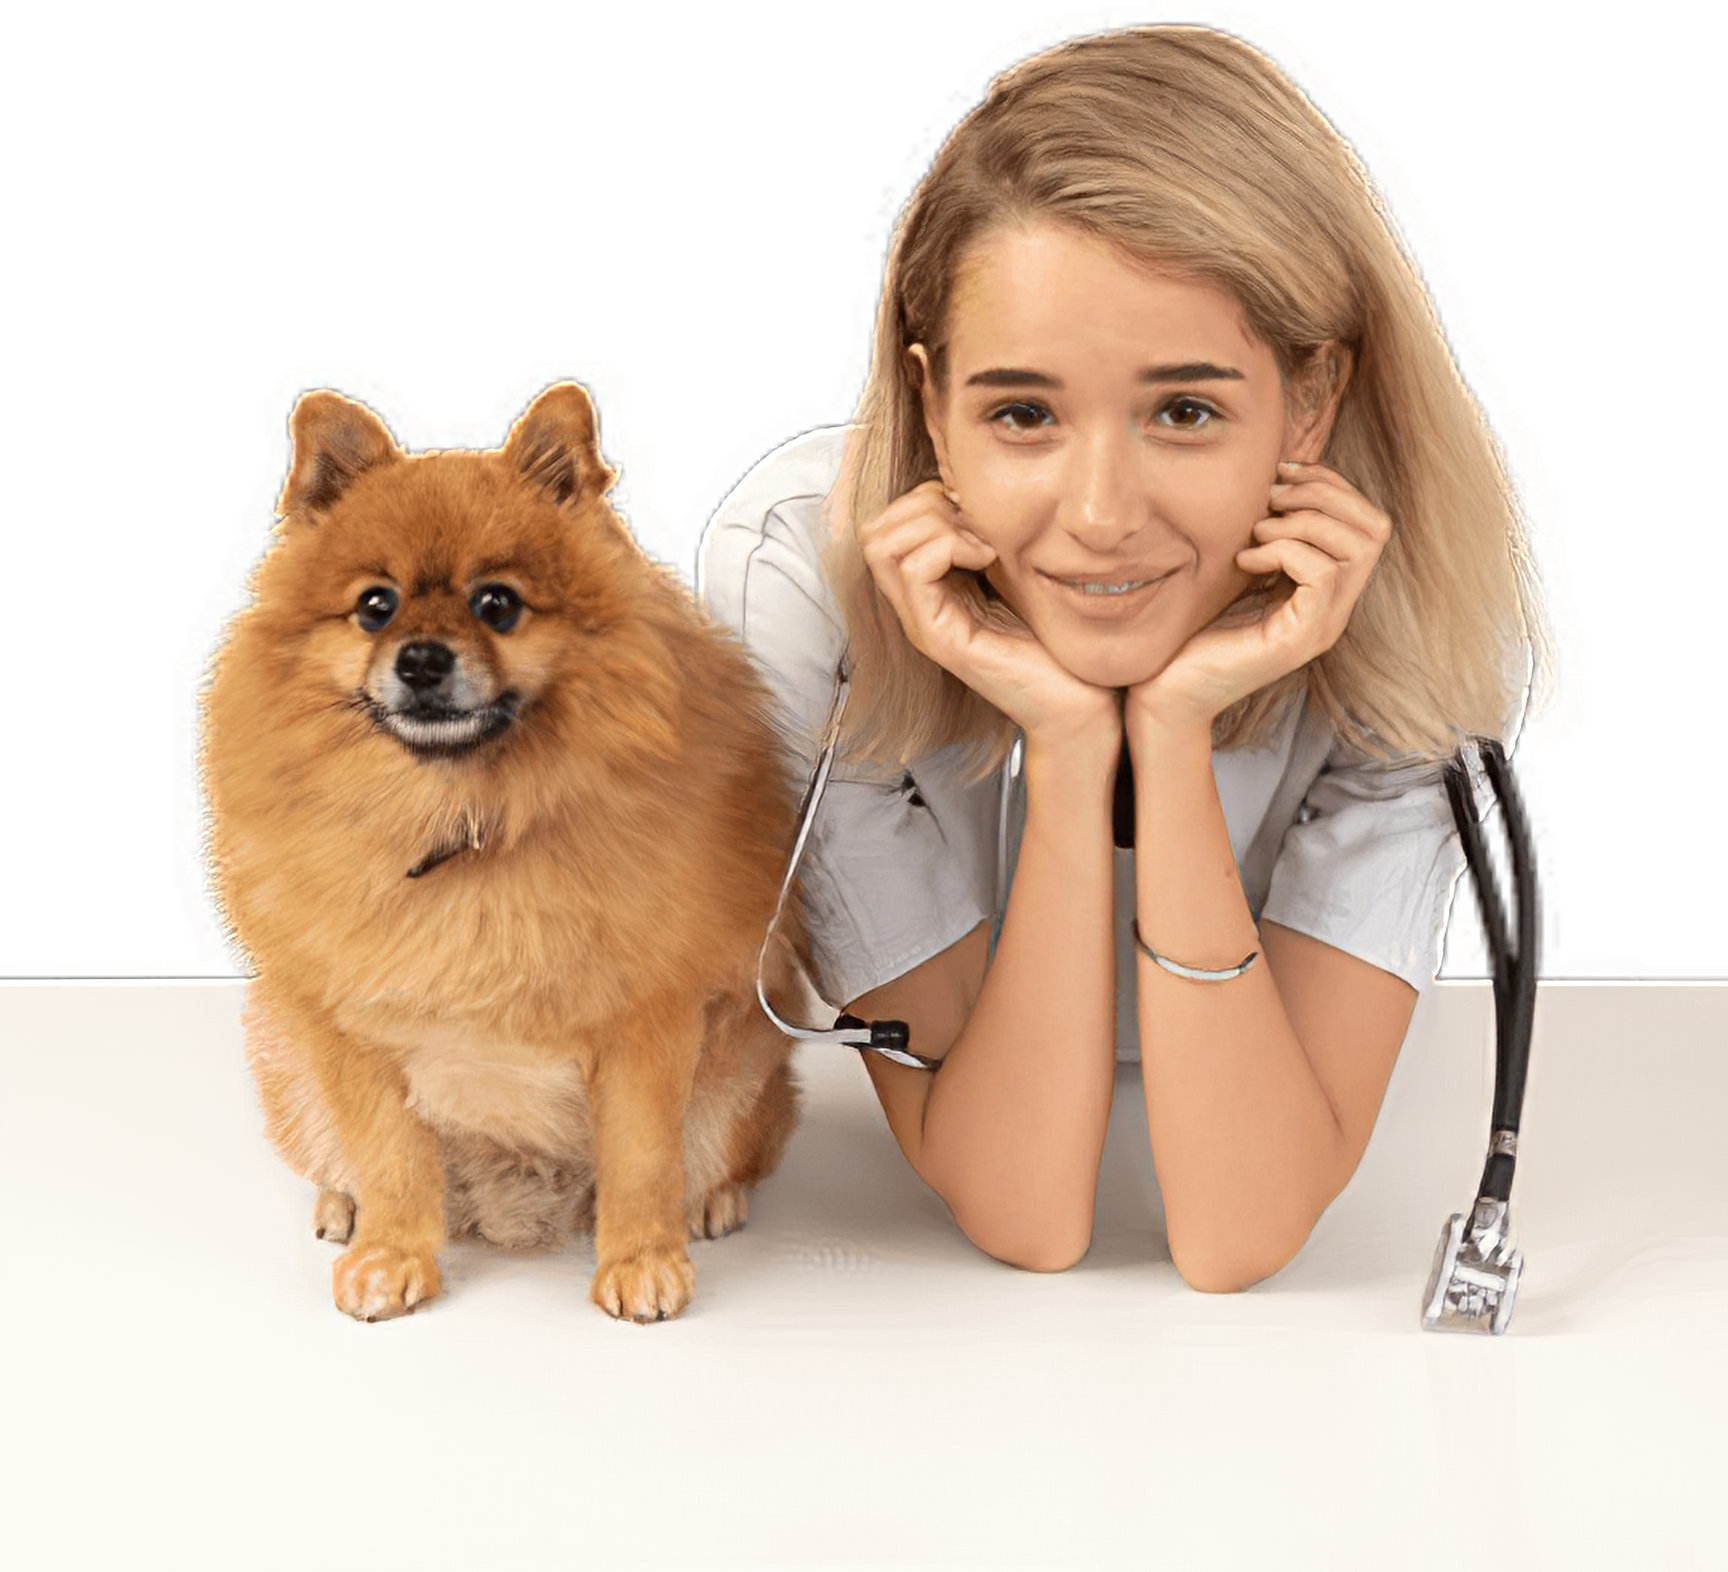
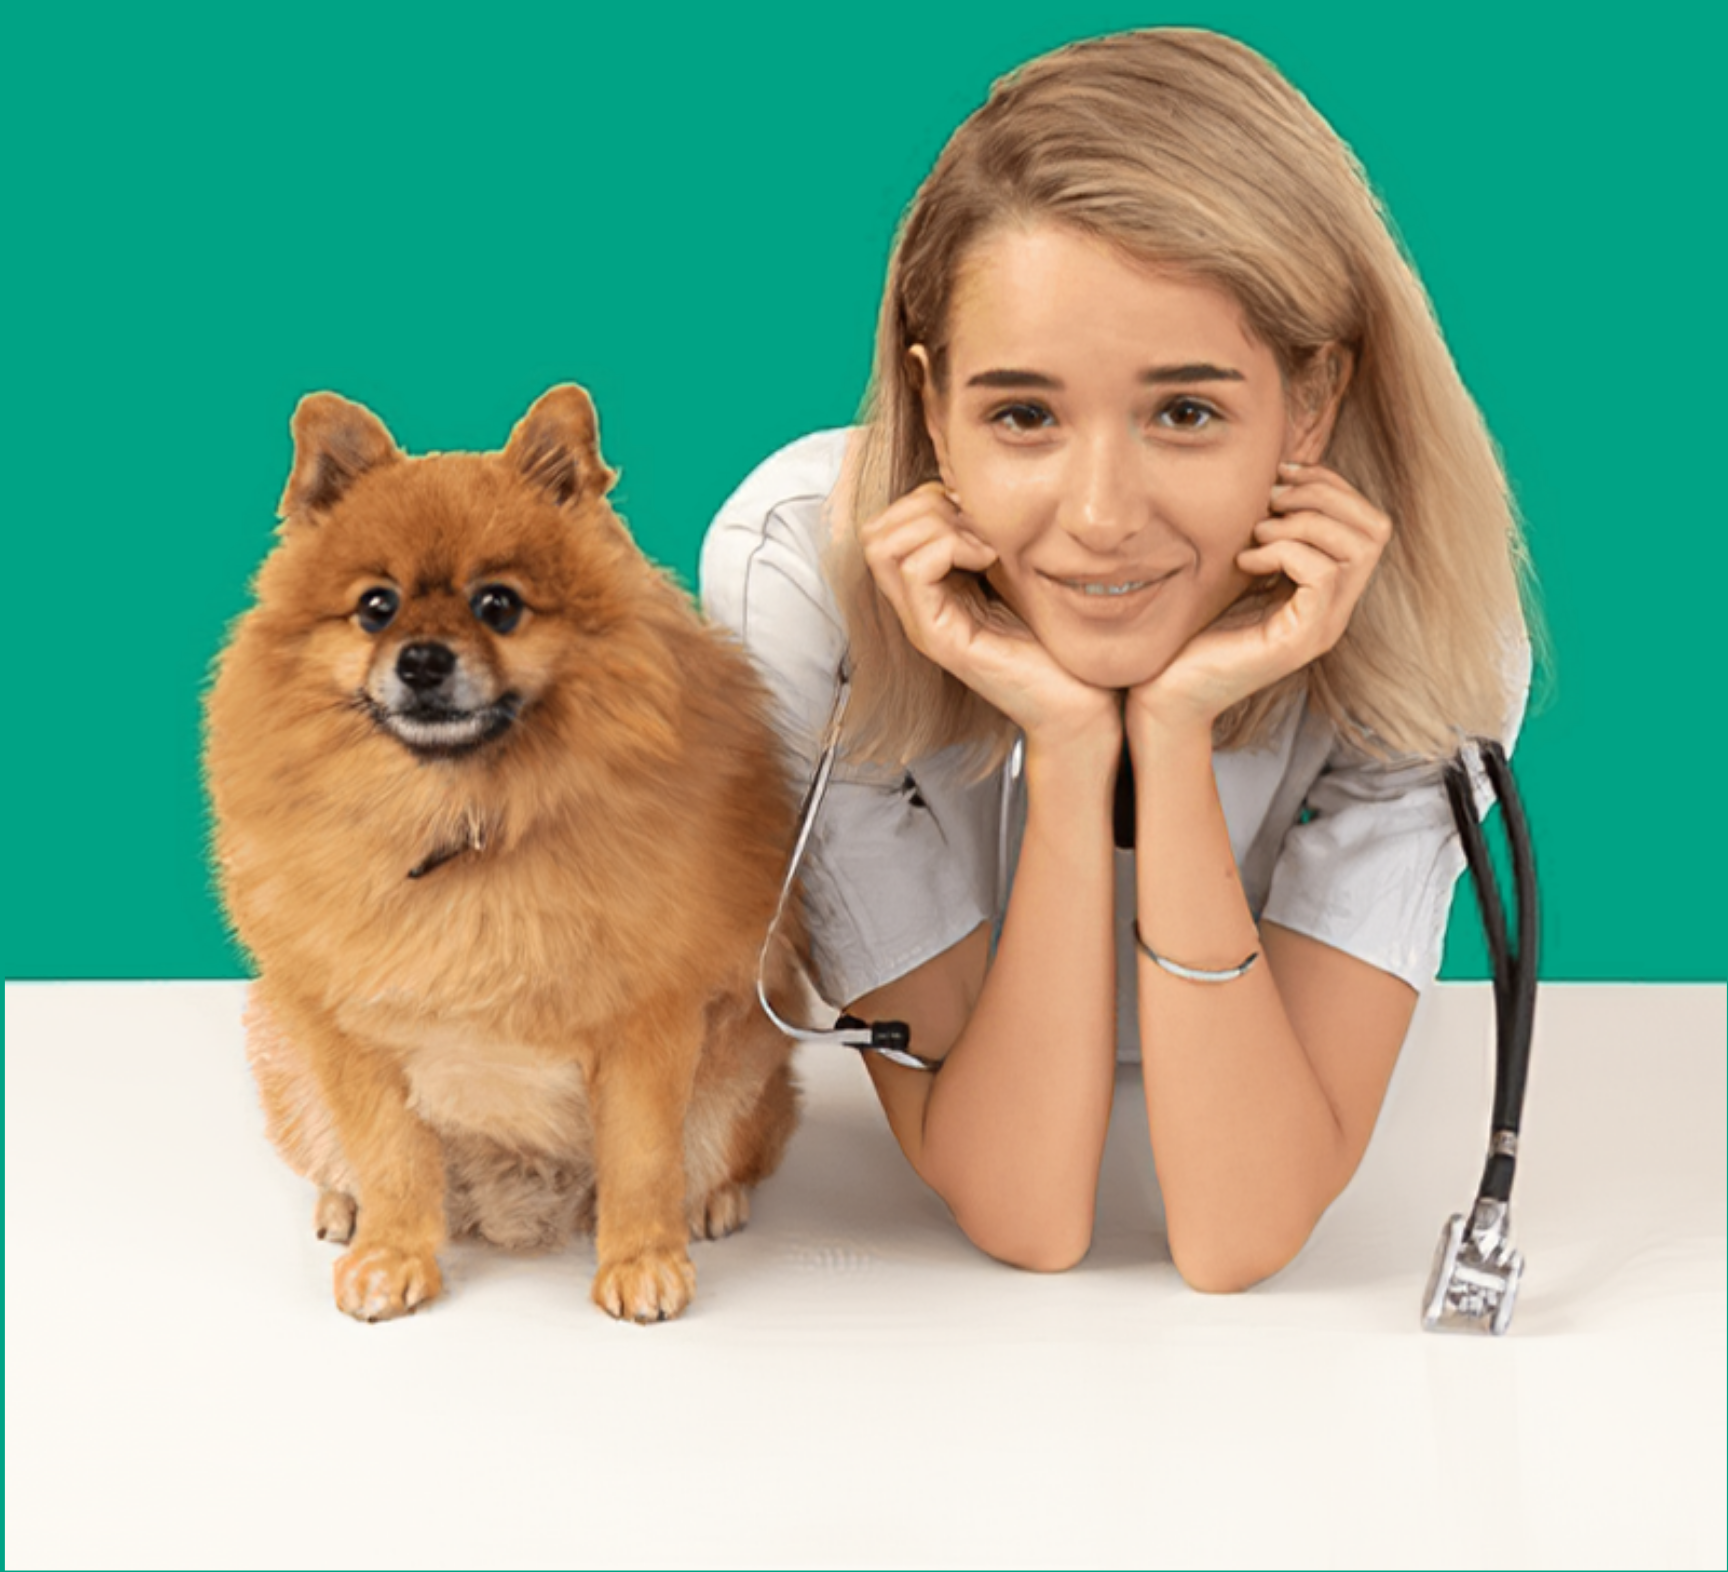
vector clipping

diff --git a/css/style.css b/css/style.css
@@ -385,6 +385,80 @@ textarea{
   flex-direction: row;
 }
 
+.wrap {
+  max-width: 1170px;
+  margin: 0 auto;
+
+}
+
+.spotlight-container {
+  background: #143256;
+  position: relative;
+    &:before {
+    content: '';
+    position: absolute;
+    bottom: 0;
+    left: 0;
+    right: 0;
+    height: 44px;
+    background: #fff;
+    z-index: 1;
+  }
+  &:after {
+    content: '';
+    position: absolute;
+    bottom: 25px;
+    left: 0;
+    right: 0;
+    height: 44px;
+    background: #e1d0bc;
+    z-index: 1;
+  }
+  .wrap {
+    position: relative;
+    z-index: 10;
+  }
+}
+.spotlight {
+  height: 500px;
+  width: 100%;
+  background: #31598a url(https://images.unsplash.com/photo-1447752875215-b2761acb3c5d?crop=entropy&fit=crop&fm=jpg&h=1325&ixjsv=2.1.0&ixlib=rb-0.3.5&q=80&w=2025) center center / cover no-repeat;
+}
+
+.wave-container {
+  position: relative;
+  z-index: 100;
+  
+
+  .wrap {
+    position: relative;
+  }
+  
+  .wave {
+    position: absolute;
+    bottom: 0;
+    left: 0;
+    right: 0;
+    height: 200px;
+    svg {
+      position: absolute;
+      bottom: 50px;
+      left: 50%;
+      height: auto;
+      width: 100%;
+      transform: translateY(50%) translateX(-50%);
+      min-height: 190px;
+      min-width: 420px;
+    }
+  }
+
+  path {
+    stroke-width: 20px;
+    stroke: black;
+    fill: red;
+  }
+}
+
 @media screen and (min-width:320px){
 
 
@@ -610,6 +684,9 @@ textarea{
       margin-left:75px;
     }
 
+    .story-container > div{
+      margin:0 auto;
+    }
 
 }
 

diff --git a/index.php b/index.php
@@ -84,6 +84,52 @@ components::pageHeader("Home Page", ["style"], ["mobile-nav"]);
         </div>
 
 
+        <!-- <div class='spotlight-container'>
+            <div class='wrap'>
+                <div class='spotlight'></div>
+            </div>
+            </div>
+            <div class='wave-container'>
+            <div class='wrap'>
+                <div class='wave'>
+
+                    <svg xmlns="http://www.w3.org/2000/svg" version="1.1" xmlns:xlink="http://www.w3.org/1999/xlink" xmlns:svgjs="http://svgjs.dev/svgjs" viewBox="0 0 800 800">
+                        <image xlink:href="images/pexels-international-fund-for-animal-welfare-5486965.jpg" x="0" y="0" width="800" height="500"/>
+                        <defs>
+                                <linearGradient gradientTransform="rotate(270)" x1="50%" y1="0%" x2="50%" y2="100%" id="sssquiggly-grad">
+                                    <stop stop-color="hsl(180, 69%, 40%)" stop-opacity="1" offset="0%"></stop><stop stop-color="hsl(180, 69%, 60%)" stop-opacity="1" offset="100%">
+                                    </stop>
+                                </linearGradient>
+                                <clipPath id="theSvgPath">
+                                    <path d="M10,10C49.583333333333336,11.666666666666666,118.75,21.333333333333332,200,18C281.25,14.666666666666668,316.66666666666663,-7.458333333333334,400,-6C483.33333333333337,-4.541666666666666,516.6666666666666,28.333333333333332,600,25C683.3333333333334,21.666666666666668,758.3333333333334,-12.208333333333334,800,-22"></path>
+                                </clipPath>
+                        </defs>
+                        <g stroke-width="11" stroke="url(#sssquiggly-grad)" fill="none" stroke-linecap="round" transform="matrix(1,0,0,1,-5,273.3813934326172)">
+                            <path d="M10,10C49.583333333333336,11.666666666666666,118.75,21.333333333333332,200,18C281.25,14.666666666666668,316.66666666666663,-7.458333333333334,400,-6C483.33333333333337,-4.541666666666666,516.6666666666666,28.333333333333332,600,25C683.3333333333334,21.666666666666668,758.3333333333334,-12.208333333333334,800,-22">
+
+                            </path>
+                            <path d="M10,10C49.583333333333336,11.666666666666666,118.75,21.333333333333332,200,18C281.25,14.666666666666668,316.66666666666663,-7.458333333333334,400,-6C483.33333333333337,-4.541666666666666,516.6666666666666,28.333333333333332,600,25C683.3333333333334,21.666666666666668,758.3333333333334,-12.208333333333334,800,-22" transform="matrix(1,0,0,1,0,250)">
+
+                            </path>
+                            <path d="M10,10C49.583333333333336,11.666666666666666,118.75,21.333333333333332,200,18C281.25,14.666666666666668,316.66666666666663,-7.458333333333334,400,-6C483.33333333333337,-4.541666666666666,516.6666666666666,28.333333333333332,600,25C683.3333333333334,21.666666666666668,758.3333333333334,-12.208333333333334,800,-22" transform="matrix(1,0,0,1,0,240)">
+
+                            </path>
+                            <path d="M10,10C49.583333333333336,11.666666666666666,118.75,21.333333333333332,200,18C281.25,14.666666666666668,316.66666666666663,-7.458333333333334,400,-6C483.33333333333337,-4.541666666666666,516.6666666666666,28.333333333333332,600,25C683.3333333333334,21.666666666666668,758.3333333333334,-12.208333333333334,800,-22" transform="matrix(1,0,0,1,0,230)">
+
+                            </path>
+                            <path d="M10,10C49.583333333333336,11.666666666666666,118.75,21.333333333333332,200,18C281.25,14.666666666666668,316.66666666666663,-7.458333333333334,400,-6C483.33333333333337,-4.541666666666666,516.6666666666666,28.333333333333332,600,25C683.3333333333334,21.666666666666668,758.3333333333334,-12.208333333333334,800,-22" transform="matrix(1,0,0,1,0,220)">
+                            </path>
+                            
+                            <path d="M10,10C49.583333333333336,11.666666666666666,118.75,21.333333333333332,200,18C281.25,14.666666666666668,316.66666666666663,-7.458333333333334,400,-6C483.33333333333337,-4.541666666666666,516.6666666666666,28.333333333333332,600,25C683.3333333333334,21.666666666666668,758.3333333333334,-12.208333333333334,800,-22" transform="matrix(1,0,0,1,0,210)"></path><path d="M10,10C49.583333333333336,11.666666666666666,118.75,21.333333333333332,200,18C281.25,14.666666666666668,316.66666666666663,-7.458333333333334,400,-6C483.33333333333337,-4.541666666666666,516.6666666666666,28.333333333333332,600,25C683.3333333333334,21.666666666666668,758.3333333333334,-12.208333333333334,800,-22" transform="matrix(1,0,0,1,0,200)"></path><path d="M10,10C49.583333333333336,11.666666666666666,118.75,21.333333333333332,200,18C281.25,14.666666666666668,316.66666666666663,-7.458333333333334,400,-6C483.33333333333337,-4.541666666666666,516.6666666666666,28.333333333333332,600,25C683.3333333333334,21.666666666666668,758.3333333333334,-12.208333333333334,800,-22" transform="matrix(1,0,0,1,0,190)"></path><path d="M10,10C49.583333333333336,11.666666666666666,118.75,21.333333333333332,200,18C281.25,14.666666666666668,316.66666666666663,-7.458333333333334,400,-6C483.33333333333337,-4.541666666666666,516.6666666666666,28.333333333333332,600,25C683.3333333333334,21.666666666666668,758.3333333333334,-12.208333333333334,800,-22" transform="matrix(1,0,0,1,0,180)"></path><path d="M10,10C49.583333333333336,11.666666666666666,118.75,21.333333333333332,200,18C281.25,14.666666666666668,316.66666666666663,-7.458333333333334,400,-6C483.33333333333337,-4.541666666666666,516.6666666666666,28.333333333333332,600,25C683.3333333333334,21.666666666666668,758.3333333333334,-12.208333333333334,800,-22" transform="matrix(1,0,0,1,0,170)"></path><path d="M10,10C49.583333333333336,11.666666666666666,118.75,21.333333333333332,200,18C281.25,14.666666666666668,316.66666666666663,-7.458333333333334,400,-6C483.33333333333337,-4.541666666666666,516.6666666666666,28.333333333333332,600,25C683.3333333333334,21.666666666666668,758.3333333333334,-12.208333333333334,800,-22" transform="matrix(1,0,0,1,0,160)"></path><path d="M10,10C49.583333333333336,11.666666666666666,118.75,21.333333333333332,200,18C281.25,14.666666666666668,316.66666666666663,-7.458333333333334,400,-6C483.33333333333337,-4.541666666666666,516.6666666666666,28.333333333333332,600,25C683.3333333333334,21.666666666666668,758.3333333333334,-12.208333333333334,800,-22" transform="matrix(1,0,0,1,0,150)"></path><path d="M10,10C49.583333333333336,11.666666666666666,118.75,21.333333333333332,200,18C281.25,14.666666666666668,316.66666666666663,-7.458333333333334,400,-6C483.33333333333337,-4.541666666666666,516.6666666666666,28.333333333333332,600,25C683.3333333333334,21.666666666666668,758.3333333333334,-12.208333333333334,800,-22" transform="matrix(1,0,0,1,0,140)"></path><path d="M10,10C49.583333333333336,11.666666666666666,118.75,21.333333333333332,200,18C281.25,14.666666666666668,316.66666666666663,-7.458333333333334,400,-6C483.33333333333337,-4.541666666666666,516.6666666666666,28.333333333333332,600,25C683.3333333333334,21.666666666666668,758.3333333333334,-12.208333333333334,800,-22" transform="matrix(1,0,0,1,0,130)"></path><path d="M10,10C49.583333333333336,11.666666666666666,118.75,21.333333333333332,200,18C281.25,14.666666666666668,316.66666666666663,-7.458333333333334,400,-6C483.33333333333337,-4.541666666666666,516.6666666666666,28.333333333333332,600,25C683.3333333333334,21.666666666666668,758.3333333333334,-12.208333333333334,800,-22" transform="matrix(1,0,0,1,0,120)"></path><path d="M10,10C49.583333333333336,11.666666666666666,118.75,21.333333333333332,200,18C281.25,14.666666666666668,316.66666666666663,-7.458333333333334,400,-6C483.33333333333337,-4.541666666666666,516.6666666666666,28.333333333333332,600,25C683.3333333333334,21.666666666666668,758.3333333333334,-12.208333333333334,800,-22" transform="matrix(1,0,0,1,0,110)"></path><path d="M10,10C49.583333333333336,11.666666666666666,118.75,21.333333333333332,200,18C281.25,14.666666666666668,316.66666666666663,-7.458333333333334,400,-6C483.33333333333337,-4.541666666666666,516.6666666666666,28.333333333333332,600,25C683.3333333333334,21.666666666666668,758.3333333333334,-12.208333333333334,800,-22" transform="matrix(1,0,0,1,0,100)"></path><path d="M10,10C49.583333333333336,11.666666666666666,118.75,21.333333333333332,200,18C281.25,14.666666666666668,316.66666666666663,-7.458333333333334,400,-6C483.33333333333337,-4.541666666666666,516.6666666666666,28.333333333333332,600,25C683.3333333333334,21.666666666666668,758.3333333333334,-12.208333333333334,800,-22" transform="matrix(1,0,0,1,0,90)"></path><path d="M10,10C49.583333333333336,11.666666666666666,118.75,21.333333333333332,200,18C281.25,14.666666666666668,316.66666666666663,-7.458333333333334,400,-6C483.33333333333337,-4.541666666666666,516.6666666666666,28.333333333333332,600,25C683.3333333333334,21.666666666666668,758.3333333333334,-12.208333333333334,800,-22" transform="matrix(1,0,0,1,0,80)"></path><path d="M10,10C49.583333333333336,11.666666666666666,118.75,21.333333333333332,200,18C281.25,14.666666666666668,316.66666666666663,-7.458333333333334,400,-6C483.33333333333337,-4.541666666666666,516.6666666666666,28.333333333333332,600,25C683.3333333333334,21.666666666666668,758.3333333333334,-12.208333333333334,800,-22" transform="matrix(1,0,0,1,0,70)"></path><path d="M10,10C49.583333333333336,11.666666666666666,118.75,21.333333333333332,200,18C281.25,14.666666666666668,316.66666666666663,-7.458333333333334,400,-6C483.33333333333337,-4.541666666666666,516.6666666666666,28.333333333333332,600,25C683.3333333333334,21.666666666666668,758.3333333333334,-12.208333333333334,800,-22" transform="matrix(1,0,0,1,0,60)"></path><path d="M10,10C49.583333333333336,11.666666666666666,118.75,21.333333333333332,200,18C281.25,14.666666666666668,316.66666666666663,-7.458333333333334,400,-6C483.33333333333337,-4.541666666666666,516.6666666666666,28.333333333333332,600,25C683.3333333333334,21.666666666666668,758.3333333333334,-12.208333333333334,800,-22" transform="matrix(1,0,0,1,0,50)"></path><path d="M10,10C49.583333333333336,11.666666666666666,118.75,21.333333333333332,200,18C281.25,14.666666666666668,316.66666666666663,-7.458333333333334,400,-6C483.33333333333337,-4.541666666666666,516.6666666666666,28.333333333333332,600,25C683.3333333333334,21.666666666666668,758.3333333333334,-12.208333333333334,800,-22" transform="matrix(1,0,0,1,0,40)"></path><path d="M10,10C49.583333333333336,11.666666666666666,118.75,21.333333333333332,200,18C281.25,14.666666666666668,316.66666666666663,-7.458333333333334,400,-6C483.33333333333337,-4.541666666666666,516.6666666666666,28.333333333333332,600,25C683.3333333333334,21.666666666666668,758.3333333333334,-12.208333333333334,800,-22" transform="matrix(1,0,0,1,0,30)"></path><path d="M10,10C49.583333333333336,11.666666666666666,118.75,21.333333333333332,200,18C281.25,14.666666666666668,316.66666666666663,-7.458333333333334,400,-6C483.33333333333337,-4.541666666666666,516.6666666666666,28.333333333333332,600,25C683.3333333333334,21.666666666666668,758.3333333333334,-12.208333333333334,800,-22" transform="matrix(1,0,0,1,0,20)">
+                            </path>
+
+                        </g>
+                    </svg>
+
+                </div>
+            </div>
+        </div> -->
+
     </div>
 
 </main>

diff --git a/components/header.php b/components/header.php
@@ -69,7 +69,6 @@
             </nav>
       </div>
     </div>
-    <div class="waves">
 
     <div class="header-content-bot header-content">
 
@@ -80,14 +79,20 @@
               </div>
             </div>
 
-            <div>
-              <img class="header-img" src="images/dog-with-doctor.png" alt="Pawfect Care logo with green fox">
-            </div>
-
-
-
     </div>
-    <svg xmlns="http://www.w3.org/2000/svg" viewBox="0 0 1440 320"><path fill="#00A385" fill-opacity="1" d="M0,320L60,293.3C120,267,240,213,360,186.7C480,160,600,160,720,170.7C840,181,960,203,1080,197.3C1200,192,1320,160,1380,144L1440,128L1440,0L1380,0C1320,0,1200,0,1080,0C960,0,840,0,720,0C600,0,480,0,360,0C240,0,120,0,60,0L0,0Z"></path></svg>    </div>
+
+    <div class="demo">
+    <svg class="svg" xmlns="http://www.w3.org/2000/svg" viewBox="0 0 400 400" width="400" height="400">
+        <defs>  
+            <clipPath id="blob">
+            <path fill="#00cba9" d="M0,160L48,186.7C96,213,192,267,288,277.3C384,288,480,256,576,218.7C672,181,768,139,864,138.7C960,139,1056,181,1152,208C1248,235,1344,245,1392,250.7L1440,256L1440,0L1392,0C1344,0,1248,0,1152,0C1056,0,960,0,864,0C768,0,672,0,576,0C480,0,384,0,288,0C192,0,96,0,48,0L0,0Z"></path>
+            </clipPath>
+        </defs>
+        <image xlink:href="images/healthcare-gigapixel.png" x="0" y="0" height="100%" width="500px" clip-path="url(#blob)"/>
+      </svg>
+</div>
+
+  
 
   </header>
 

diff --git a/classes/utils.php b/classes/utils.php
@@ -1,8 +1,9 @@
 <?php
 
 class Utils {
-  // public static $projectFilePath = "http://localhost/Pawfectcare-Website/"; Uncomment this and comment line below to switch to localhost
-  public static $projectFilePath = "http://192.168.0.14:8080/Pawfectcare-Website/";
+  // Uncomment this and comment line below to switch to localhost
+  public static $projectFilePath = "http://localhost/Pawfectcare-Website/"; 
+  // public static $projectFilePath = "http://192.168.0.14:8080/Pawfectcare-Website/";
   public static $defaultBookCover = "default.png";
 
   /**
